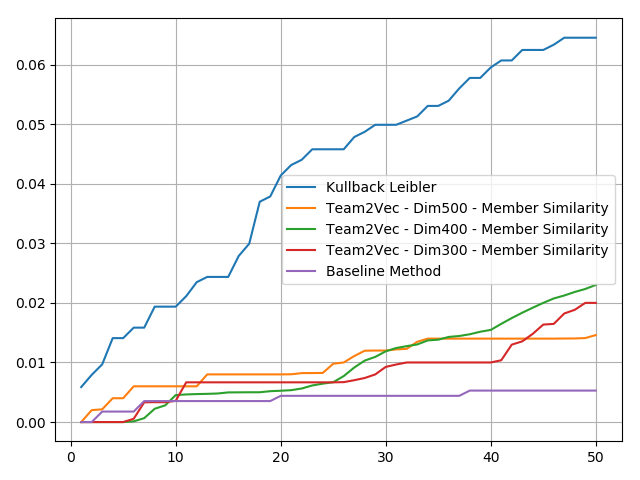
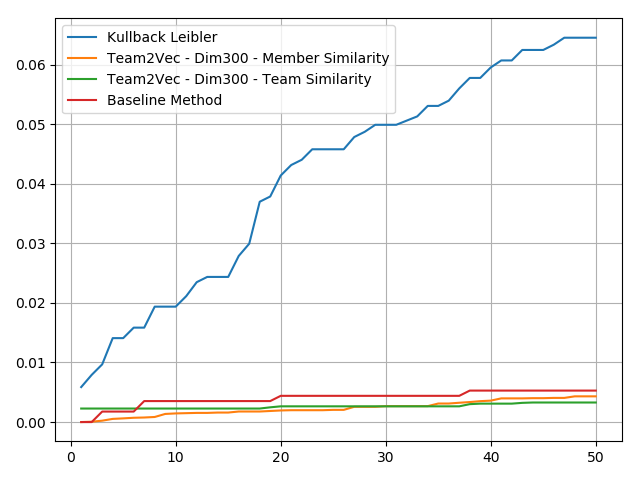
New conparisons added

diff --git a/Backyard/methods_comparison.py b/Backyard/methods_comparison.py
@@ -33,9 +33,9 @@ plt.figure(0)
 plt.xlabel = 'K'
 plt.ylabel = 'Recall'
 plt.title = 'Recall @ K'
-plt.plot(k_set, y_kl, label='Kullback Leibler')
-plt.plot(k_set, y_t2v_dim500_members, label='Team2Vec - Dim500 - Member Similarity')
-plt.plot(k_set, y_t2v_dim400_members, label='Team2Vec - Dim400 - Member Similarity')
+# plt.plot(k_set, y_kl, label='Kullback Leibler')
+# plt.plot(k_set, y_t2v_dim500_members, label='Team2Vec - Dim500 - Member Similarity')
+# plt.plot(k_set, y_t2v_dim400_members, label='Team2Vec - Dim400 - Member Similarity')
 plt.plot(k_set, y_t2v_dim300_members, label='Team2Vec - Dim300 - Member Similarity')
 plt.plot(k_set, y_t2v_dim300_teams, label='Team2Vec - Dim300 - Team Similarity')
 plt.plot(k_set, y_bl, label='Baseline Method')
@@ -53,6 +53,6 @@ general_dictionary = {'KL': KL_r_at_k, 'T2V-D300-T': T2V_dim300_teams_r_at_k,
                       'T2V-D300-M': T2V_dim300_members_r_at_k, 'T2V-D400-M': T2V_dim400_members_r_at_k,
                       'T2V-D500-M': T2V_dim500_members_r_at_k, 'Baseline': BL_r_at_k}
 
-for k, v in general_dictionary.items():
-    lang, perc, change = v
-    print ("{:<8} {:<15} {:<10} {:<10}".format(k, lang, perc, change))
+# for k, v in general_dictionary.items():
+#     for kk, vv in v.items():
+#         print("{:<8} {:<15} {:<10}".format(k, kk, kk))
